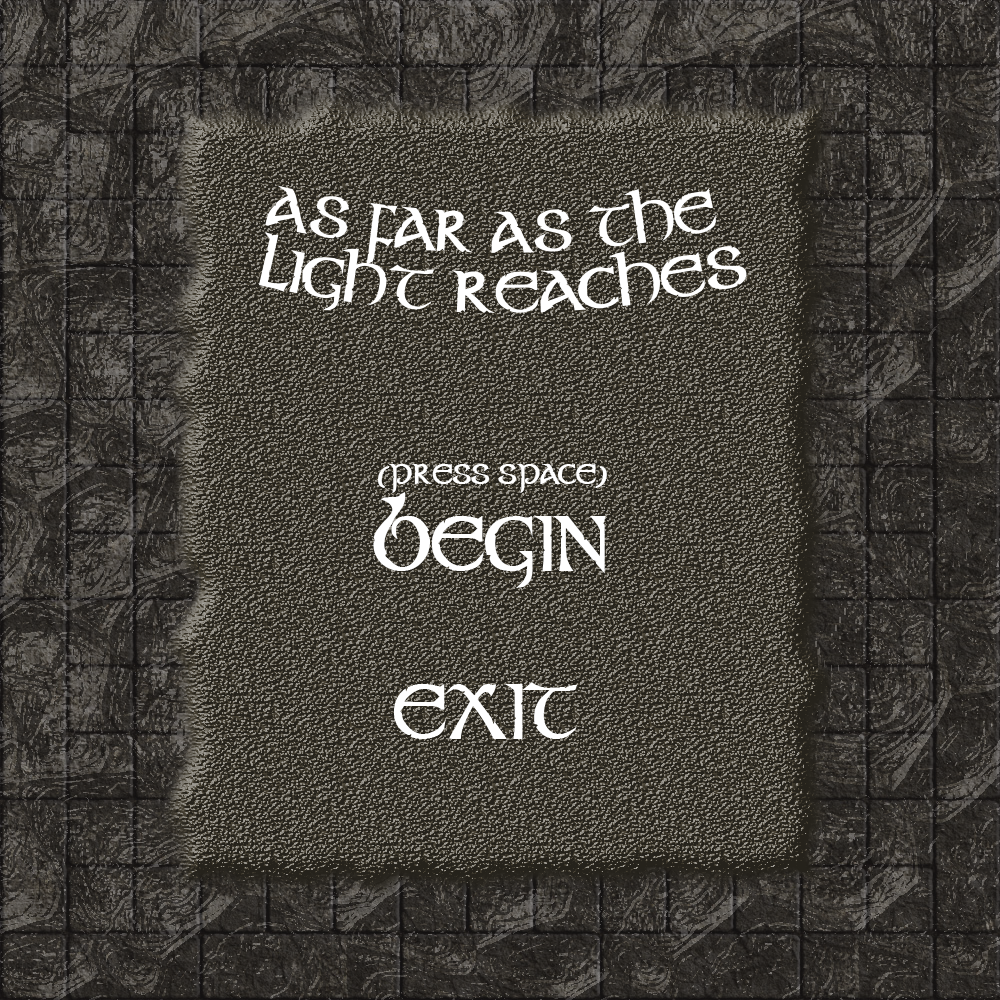
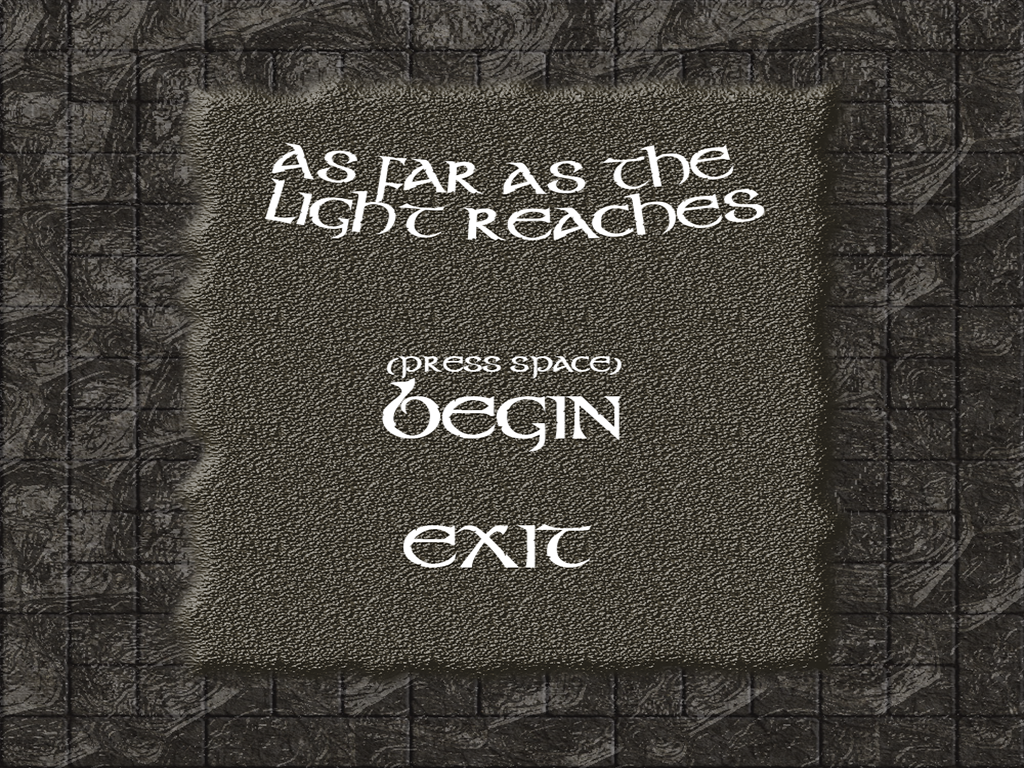
UI cleaned up for the new window size. HP pots close to fully functional

diff --git a/As Far as the Light Reaches/Game1.cs b/As Far as the Light Reaches/Game1.cs
@@ -526,9 +526,16 @@ namespace As_Far_as_the_Light_Reaches
                     {
                         curState = GameState.Item;
 
-                        if (SingleKeyPress(Keys.H))
+                        //Checks if health potion is used 
+                        if (SingleKeyPress(Keys.H) && potsAmount > 0)
                         {
                             player.CurHealth += 10;
+
+                            potsAmount--;
+                            if (potsAmount <= 0)
+                            {
+                                potsAmount = 0;
+                            }
                         }
                     }
                     else if (SingleKeyPress(Keys.U))    //If 'u' is pressed, switch the gamState to Stats
@@ -607,7 +614,7 @@ namespace As_Far_as_the_Light_Reaches
                     //Draw HP in Walking UI
                     spriteBatch.DrawString(font, "HP: " + player.CurHealth, new Vector2(180, 900), Color.White);
                     
-                    //draw map
+                    //Draw map
                     var viewMatrix = cam.GrabMatrix();
                     mapBatch.Begin(transformMatrix: viewMatrix);
                     mapBatch.Draw(manager.CurLevelTexture, new Rectangle(0, 0, 1000, 1800), Color.White);   //Draws the level background
@@ -616,18 +623,22 @@ namespace As_Far_as_the_Light_Reaches
                     //Draw each enemy
                     foreach (Enemy e in enemies)
                     {
-                        spriteBatch.Draw(protagDownStill, new Rectangle(e.Pos.X, e.Pos.Y, 75, 85), Color.White);
+                        spriteBatch.Draw(protagDownStill, new Rectangle(e.Pos.X, e.Pos.Y, 75, 90), Color.White);
                     }
 
                     //Draw basic UI
                     spriteBatch.Draw(basicUI, new Rectangle(0, 0, GraphicsDevice.Viewport.Width, GraphicsDevice.Viewport.Height), Color.White);
-
+                    
                     switch (Moving)
                     {
                         case Motion.StandDown: spriteBatch.Draw(protagDownStill, new Rectangle(player.PlayerRec.X, player.PlayerRec.Y, 75, 85), Color.White); break;
+
                         case Motion.StandUp: spriteBatch.Draw(protagUpStill, new Rectangle(player.PlayerRec.X, player.PlayerRec.Y, 75, 85), Color.White); break;
+
                         case Motion.StandLeft: spriteBatch.Draw(protagLeftStill, new Rectangle(player.PlayerRec.X, player.PlayerRec.Y, 75, 85), Color.White); break;
+
                         case Motion.StandRight: spriteBatch.Draw(protagRightStill, new Rectangle(player.PlayerRec.X, player.PlayerRec.Y, 75, 85), Color.White); break;
+
 
                         case Motion.WalkDown:
                             if (frame1 == 1)
@@ -639,6 +650,7 @@ namespace As_Far_as_the_Light_Reaches
                                 spriteBatch.Draw(protagDownWalk2, new Rectangle(player.PlayerRec.X, player.PlayerRec.Y, 75, 85), Color.White);
                             }
                             break;
+
                         case Motion.WalkUp:
                             if (frame1 == 1)
                             {
@@ -649,6 +661,7 @@ namespace As_Far_as_the_Light_Reaches
                                 spriteBatch.Draw(protagUpWalk1, new Rectangle(player.PlayerRec.X, player.PlayerRec.Y, 75, 85), Color.White);
                             }
                             break;
+
                         case Motion.WalkLeft:
                             if (frame == 1)
                             {
@@ -661,6 +674,7 @@ namespace As_Far_as_the_Light_Reaches
                             }
 
                             break;
+
                         case Motion.WalkRight:
                             if (frame == 1)
                             {
@@ -674,51 +688,67 @@ namespace As_Far_as_the_Light_Reaches
                     }
                     break;
 
-                //Draw the GUI in combat
                 case GameState.Combat:
 
                     switch (cmbState)
                     {
                         case CombatState.Attack:
-                            spriteBatch.DrawString(font, "Health: " + curEnemy.CurrHealth, new Vector2(10, 10), Color.White);
+                            //Draw the UI for combat
                             spriteBatch.Draw(battleUI, new Rectangle(0, 0, GraphicsDevice.Viewport.Width, GraphicsDevice.Viewport.Height), Color.White);
-                            spriteBatch.Draw(meterObj, meterObjRec, Color.White);   //Draw the meter going back and forth on the screen.
+
+                            //Draw the meter going back and forth on the screen.
+                            spriteBatch.Draw(meterObj, meterObjRec, Color.White);   
+
+                            //Draw the hp values of each fighter
+                            spriteBatch.DrawString(font, "Enemy's Health: " + curEnemy.CurrHealth, new Vector2(10, 10), Color.White);
                             spriteBatch.DrawString(font, "Player Health: " + player.CurHealth, new Vector2(10, 60), Color.White);
 
                             break;
 
                         case CombatState.Block:
                             int iteration = 0;
-                            foreach(Arrow a in curArrows)        //Draw each Arrow
+
+                            //Draw each arrow
+                            foreach(Arrow a in curArrows)        
                             {
                                 iteration++;
 
+                                //Draw each arrow to the screen
                                 spriteBatch.Draw(a.CurTexture,new Rectangle(a.Rec.X + (iteration * a.Rec.Width + 50), a.Rec.Y, a.Rec.Width, a.Rec.Height),Color.White);
                             }
-                            spriteBatch.Draw(hitbox, new Rectangle(275, 300, 150, 150), Color.White);
-                            spriteBatch.DrawString(font, "Health: " + curEnemy.CurrHealth, new Vector2(10, 10), Color.White);
-                            spriteBatch.Draw(battleUI, new Rectangle(0, 0, GraphicsDevice.Viewport.Width, GraphicsDevice.Viewport.Height), Color.White);
-                            spriteBatch.DrawString(font, "Player Health: " + player.CurHealth, new Vector2(10, 60), Color.White);
-                            break;
-                        default: break;
 
+                            //Draws the hitbox for the arrows
+                            spriteBatch.Draw(hitbox, new Rectangle(275, 300, 150, 150), Color.White);
+
+                            //Draw the UI for combat
+                            spriteBatch.Draw(battleUI, new Rectangle(0, 0, GraphicsDevice.Viewport.Width, GraphicsDevice.Viewport.Height), Color.White);
+
+                            //Draw the hp values of each fighter
+                            spriteBatch.DrawString(font, "Player Health: " + player.CurHealth, new Vector2(10, 60), Color.White);
+                            spriteBatch.DrawString(font, "Enemy's Health: " + curEnemy.CurrHealth, new Vector2(10, 10), Color.White);
+                                                        
+                            break;
+
+                        default:
+                            break;
                     }
                     break;
 
                 case GameState.Over:
 
- //                   spriteBatch.Draw(overScreen,new Rectangle(0,0,winX,winY),Color.White);    //Draw the game over screen.
+                    spriteBatch.Draw(overScreen,new Rectangle(0,0,winX,winY),Color.White);    //Draw the game over screen.
 
                     break;
 
                 case GameState.Pause:
-                    //Draw pause menu GUI
-                    spriteBatch.Draw(startMenu, pauseVec, Color.White); //Draw pause menu
+
+                    //Draw pause menu
+                    spriteBatch.Draw(startMenu, new Vector2(-188,0), Color.White);
                     break;
 
                 case GameState.Item:
-                    spriteBatch.Draw(itemsMenu, pauseVec, Color.White); //Draw items menu
-                    if (SingleKeyPress(Keys.H))
+
+                    if (SingleKeyPress(Keys.H) && potsAmount > 0)
                     {
                         potsAmount--;
                         if (potsAmount <= 0)
@@ -726,15 +756,22 @@ namespace As_Far_as_the_Light_Reaches
                             potsAmount = 0;
                         }
                     }
-                    spriteBatch.DrawString(font, "x" + potsAmount, new Vector2(800, 300), Color.White);
+
+                    //Draw items menu
+                    spriteBatch.Draw(itemsMenu, new Vector2(0, 0), Color.White); 
+
+                    spriteBatch.DrawString(font, "x" + potsAmount, new Vector2(670, 275), Color.White);
                     break;
 
                 case GameState.Stats:
-                    spriteBatch.Draw(statsMenu, pauseVec, Color.White); //Draw the stats menu.
-                    spriteBatch.DrawString(font, "" + player.Armor, new Vector2(580, 165), Color.White);
-                    spriteBatch.DrawString(font, "" + player.Damage, new Vector2(580, 400), Color.White);
-                    spriteBatch.DrawString(font, "" + player.Boost, new Vector2(580, 635), Color.White);
-                    spriteBatch.DrawString(font, "", new Vector2(580, 235), Color.White);
+
+                    //Draw the stats menu.
+                    spriteBatch.Draw(statsMenu, new Vector2(-188,0), Color.White);
+
+                    //Prints out player stats in their own respective sections in the menu
+                    spriteBatch.DrawString(font, "" + player.Armor, new Vector2(580, 195), Color.White);
+                    spriteBatch.DrawString(font, "" + player.Damage, new Vector2(580, 375), Color.White);
+                    spriteBatch.DrawString(font, "" + player.Boost, new Vector2(580, 550), Color.White);
                     break;
 
                 default: break;
